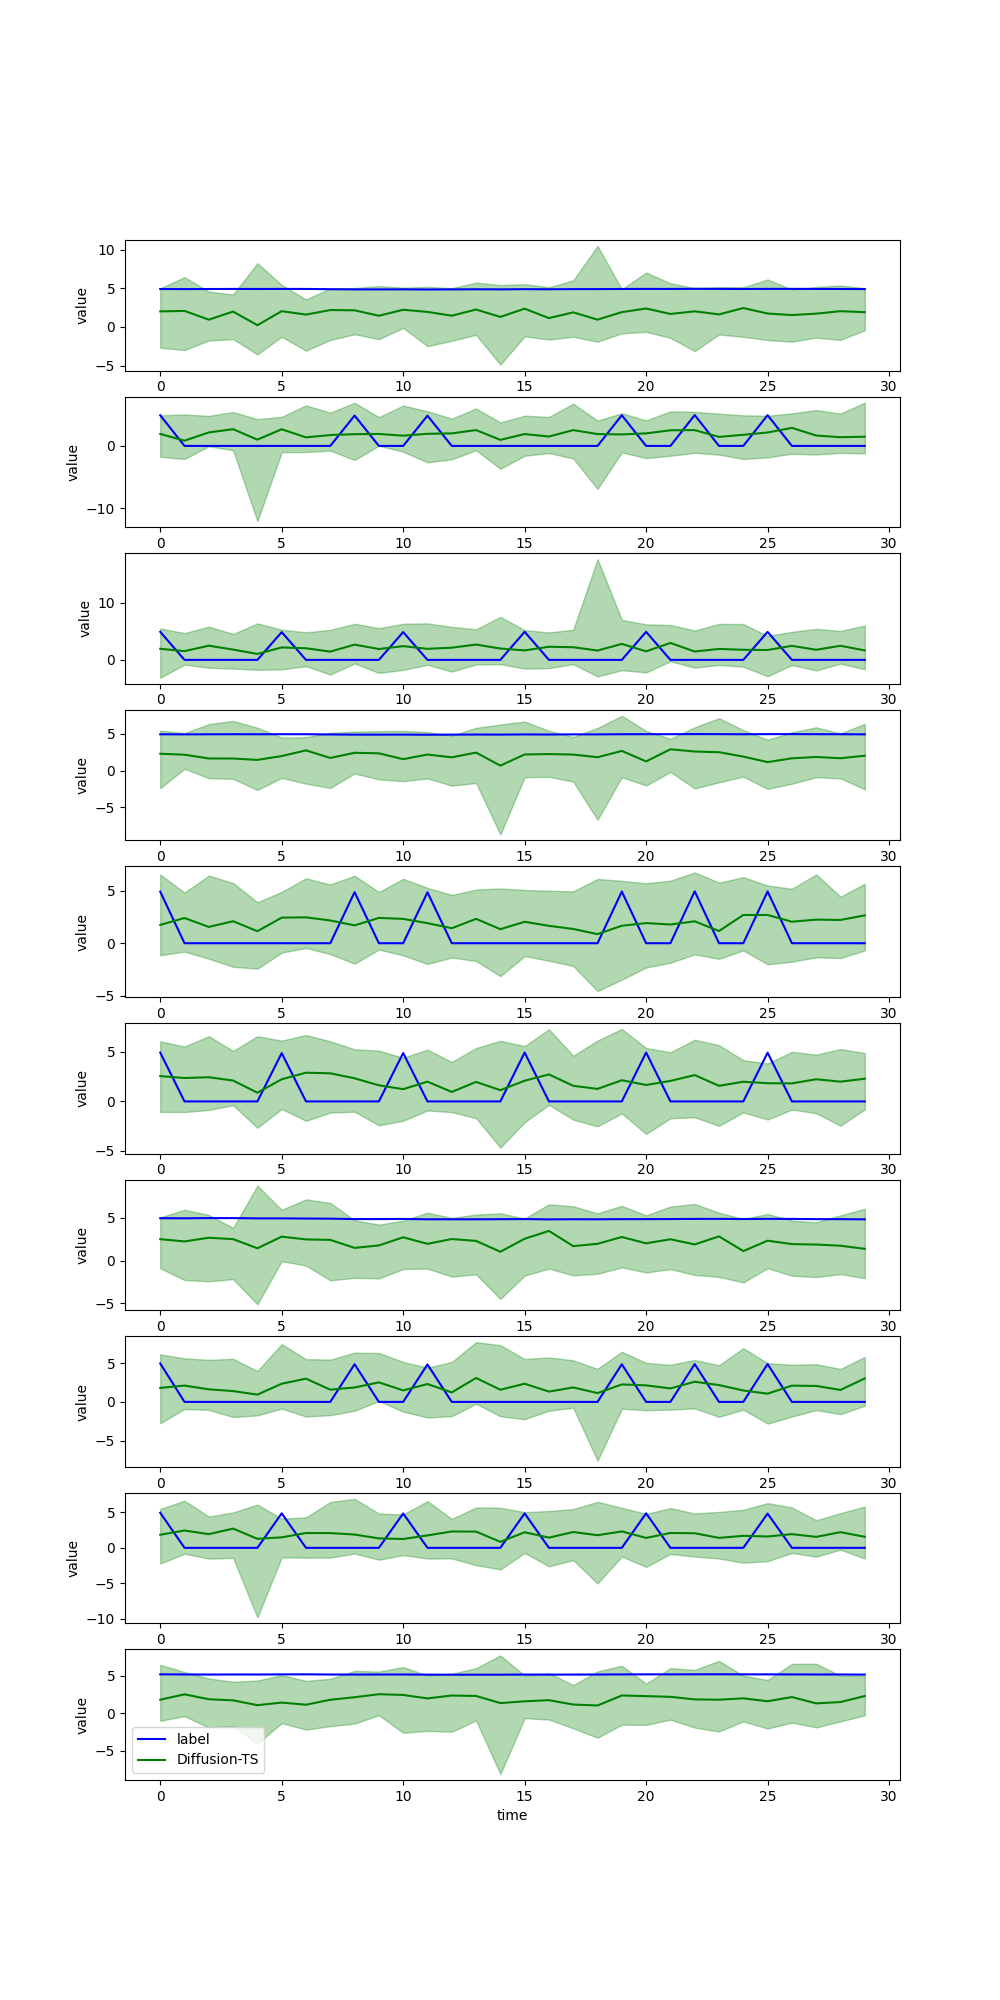
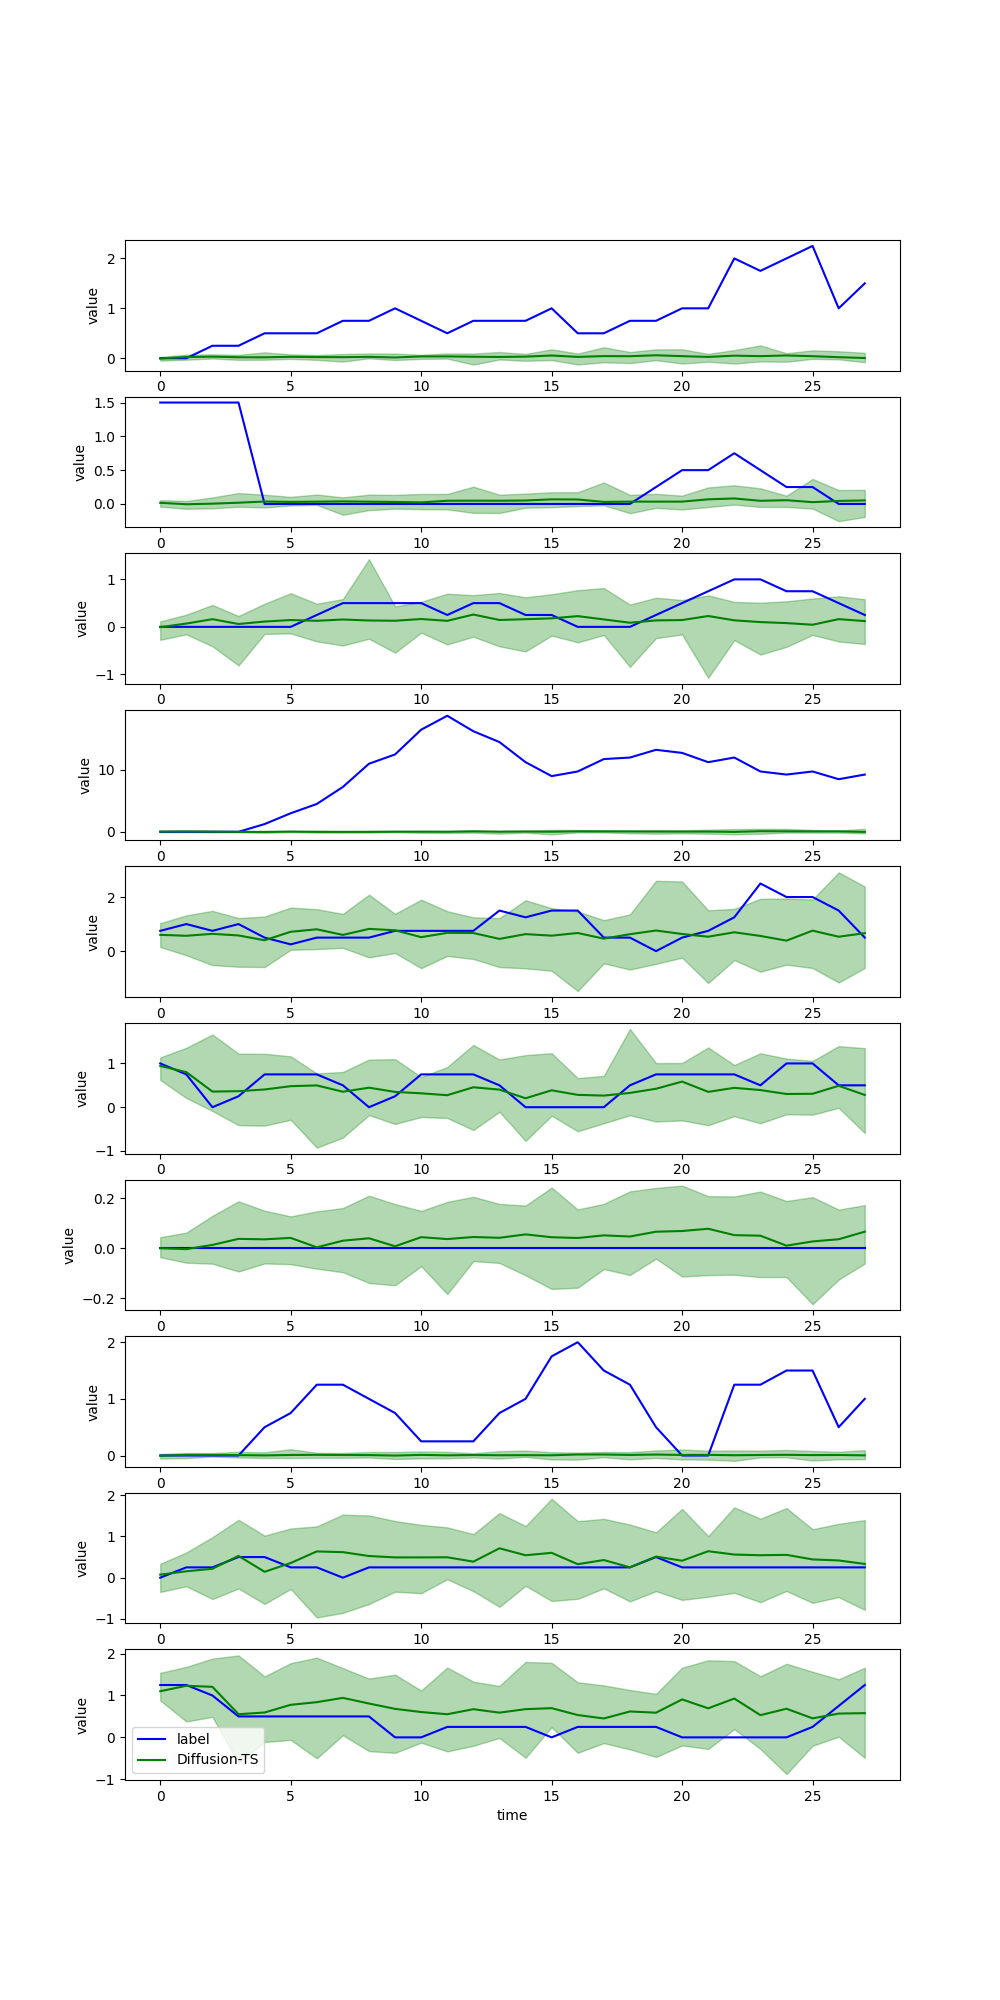
with stl

diff --git a/data_provider/dataset_CSDI.py b/data_provider/dataset_CSDI.py
@@ -2383,16 +2383,53 @@ class Dataset_M5(Dataset):
             self.mask_val = []
             self.main_data = []
             self.mask_data = []
+            self.trend_train = []
+            self.trend_val = []
+            self.season_train = []
+            self.season_val = []
+            self.resid_train = []
+            self.resid_val = []
+
             for foods_store in foods_stores:
                 print(foods_store)
                 df = csv_data[(csv_data['store_id'] == foods_store) & (csv_data['dept_id'].isin(foods_depts))]
                 d_columns = [f'd_{i}' for i in range(1, 1942)]
-                filtered_data_d = df[d_columns].T.values
-                filtered_data_d, mask = process_data(filtered_data_d)
-                mean, std = calculate_stats(filtered_data_d[:-self.pred_len], mask[:-self.pred_len])
-                # mean = np.mean(filtered_data_d[:-self.pred_length], axis=0)
-                # std = np.std(filtered_data_d[:-self.pred_length], axis=0)
+                # filtered_data_d = df[d_columns].T.values
+                # filtered_data_d = df[d_columns].T.rolling(window=4, min_periods=1).mean().to_numpy()
+                filtered_data_d = df[d_columns].T.rolling(window=7, min_periods=1).sum().to_numpy()
+                print("filtered_data_d mean", filtered_data_d.mean())
+                # filtered_data_d, mask = process_data(filtered_data_d)
+                # mean, std = calculate_stats(filtered_data_d[:-self.pred_len], mask[:-self.pred_len])
+                mask = np.ones_like(filtered_data_d)
+                mean = np.mean(filtered_data_d[:-self.pred_len], axis=0)
+                std = np.std(filtered_data_d[:-self.pred_len], axis=0)
                 normalized_data = (filtered_data_d - mean) / std
+                # import pdb; pdb.set_trace()
+                # Initialize arrays to store decomposition results
+                trend_all = np.zeros_like(normalized_data)
+                seasonal_all = np.zeros_like(normalized_data)
+                residual_all = np.zeros_like(normalized_data)
+                if self.set_type == 0 or self.set_type ==1:
+                    # Perform STL decomposition for each sample
+                    for i in range(normalized_data.shape[0]):
+                        # Convert each time series to pandas Series
+                        ts = pd.Series(normalized_data[i, :])
+                        
+                        # Perform STL decomposition
+                        # Adjust period based on your data's seasonal pattern
+                        stl = STL(ts, period=24)  # For example, if daily data with yearly seasonality, period=365
+                        result = stl.fit()
+                        
+                        # Store results
+                        trend_all[i, :] = result.trend
+                        seasonal_all[i, :] = result.seasonal
+                        residual_all[i, :] = result.resid
+
+                # Components are now available as numpy arrays
+                trend_np = trend_all #.to_numpy()
+                seasonal_np = seasonal_all #.to_numpy()
+                residual_np = residual_all #.to_numpy()
+
                 start = ((len(normalized_data) - self.seq_length -self.seq_length) -(self.seq_length-self.pred_len))//self.pred_len
                 end = len(normalized_data) - self.seq_length -self.seq_length + 1
                 self.test_data.append(normalized_data[-self.seq_length:].copy())
@@ -2402,16 +2439,24 @@ class Dataset_M5(Dataset):
                 self.test_std.append(std)
 
                 self.use_index = np.arange(start,end,self.pred_len)
+                # self.use_index = np.arange(start,end,1)
 
                 for index in self.use_index[:-3]:
                     self.mask_data.append(mask[index:index+self.seq_length])
                     # self.mask_data.append(np.ones_like(normalized_data[index:index+self.seq_length]))
                     self.main_data.append(normalized_data[index:index+self.seq_length])
+                    self.trend_train.append(trend_np[index:index+self.seq_length])
+                    self.season_train.append(seasonal_np[index:index+self.seq_length])
+                    self.resid_train.append(residual_np[index:index+self.seq_length])
+                    
                     
                 for index in self.use_index[-3:]:
                     self.mask_val.append(mask[index:index+self.seq_length])
                     # self.mask_val.append(np.ones_like(normalized_data[index:index+self.seq_length]))
                     self.val_data.append(normalized_data[index:index+self.seq_length])
+                    self.trend_val.append(trend_np[index:index+self.seq_length])
+                    self.season_val.append(seasonal_np[index:index+self.seq_length])
+                    self.resid_val.append(residual_np[index:index+self.seq_length])
 
             
             '''
@@ -2425,7 +2470,7 @@ class Dataset_M5(Dataset):
         
         
        
-        self.mmean_data = 0
+        self.mean_data = 0
         self.std_data = 1
         
         if self.set_type == 0:
@@ -2450,6 +2495,12 @@ class Dataset_M5(Dataset):
             seq_y = self.main_data[index][-self.pred_len:, feat_id:feat_id+1]
             seq_y = torch.tensor(seq_y, dtype=torch.float32)
             observed_mask = self.mask_data[index][-self.pred_len:, feat_id:feat_id+1]
+            train_trend = self.trend_train[index][:-self.pred_len, feat_id:feat_id+1]
+            train_season = self.season_train[index][:-self.pred_len, feat_id:feat_id+1]
+            train_resid = self.resid_train[index][:-self.pred_len, feat_id:feat_id+1]
+            trend = torch.tensor(train_trend, dtype=torch.float32)
+            season = torch.tensor(train_season, dtype=torch.float32)
+            resid = torch.tensor(train_resid, dtype=torch.float32)
         # seq_x = self.main_data[index:index+self.seq_len]
         elif self.set_type == 1:
             index = orgindex//self.enc_in
@@ -2459,6 +2510,13 @@ class Dataset_M5(Dataset):
             seq_y = self.val_data[index][-self.pred_len:, feat_id:feat_id+1]
             seq_y = torch.tensor(seq_y, dtype=torch.float32)
             observed_mask = self.mask_val[index][-self.pred_len:, feat_id:feat_id+1]
+
+            val_trend = self.trend_val[index][:-self.pred_len, feat_id:feat_id+1]
+            val_season = self.season_val[index][:-self.pred_len, feat_id:feat_id+1]
+            val_resid = self.resid_val[index][:-self.pred_len, feat_id:feat_id+1]
+            trend = torch.tensor(val_trend, dtype=torch.float32)
+            season = torch.tensor(val_season, dtype=torch.float32)
+            resid = torch.tensor(val_resid, dtype=torch.float32)
         else:
             index = self.use_index[orgindex]
             seq_x = self.test_data[index][:-self.pred_len]
@@ -2471,7 +2529,7 @@ class Dataset_M5(Dataset):
       
         
         if self.set_type == 0 or self.set_type == 1:
-            return seq_x, seq_y, observed_mask, observed_mask
+            return seq_x, seq_y, observed_mask, observed_mask, trend, season, resid
         else:
             return seq_x, seq_y, observed_mask, means, stds
         # return seq_x, text_embedding, observed_mask
@@ -2479,6 +2537,7 @@ class Dataset_M5(Dataset):
     def __len__(self):
         if self.set_type == 2:
             return len(self.use_index)
+        print(self.enc_in )
         return len(self.use_index)*self.enc_in   
 
 

diff --git a/utils/tools.py b/utils/tools.py
@@ -280,6 +280,9 @@ def vali(model, vali_data, vali_loader, criterion, args, device, itr):
             
 
             if args.model == 'GPT4TS_multi' or args.model == 'NLinear_multi' or 'TEMPO' in args.model:
+                seq_trend = data[4]
+                seq_seasonal = data[5]
+                seq_resid = data[6]
                 seq_trend = seq_trend.float().to(device)
                 seq_seasonal = seq_seasonal.float().to(device)
                 seq_resid = seq_resid.float().to(device)
@@ -297,7 +300,7 @@ def vali(model, vali_data, vali_loader, criterion, args, device, itr):
 
             # pred = outputs.detach().cpu()
             # true = batch_y.detach().cpu()
-
+            # import pdb; pdb.set_trace()
             loss = criterion(batch_y, outputs)
 
             total_loss.append(loss.item())
@@ -361,6 +364,36 @@ def plot_results(synthetic_data, target_mask, gt_data, seq_len,
     # plt.show()
     plt.close()
 
+from torch.distributions import NegativeBinomial
+
+def sample_negative_binomial(mu, alpha, num_samples=1):
+    """
+    Generate samples from a Negative Binomial distribution.
+    
+    Args:
+    mu (torch.Tensor): Mean parameter of the Negative Binomial distribution.
+    alpha (torch.Tensor): Dispersion parameter of the Negative Binomial distribution.
+    num_samples (int): Number of samples to generate for each mu-alpha pair.
+    
+    Returns:
+    torch.Tensor: Samples from the Negative Binomial distribution.
+    """
+    # Ensure mu and alpha are positive
+    mu = torch.clamp(mu, min=1e-6)
+    alpha = torch.clamp(alpha, min=1e-6)
+
+    # Calculate the parameters needed for PyTorch's NegativeBinomial distribution
+    r = 1 / alpha  # shape parameter (number of failures)
+    p = torch.clamp(1 / (1 + mu * alpha), min=1e-6, max=1-1e-6)  # success probability
+    
+    # Create the NegativeBinomial distribution
+    nb_dist = NegativeBinomial(total_count=r, probs=p)
+    
+    # Generate samples
+    samples = nb_dist.sample((num_samples,))
+    
+    return samples
+
 def test(model, test_data, test_loader, args, device, itr):
     preds = []
     trues = []
@@ -405,25 +438,29 @@ def test(model, test_data, test_loader, args, device, itr):
             # import pdb; pdb.set_trace()
             for channel in range(batch_x.shape[-1]):
                 if args.model == 'TEMPO' or args.model == 'TEMPO_t5' or 'multi' in args.model:
-                    seq_trend = seq_trend.float().to(device)
-                    seq_seasonal = seq_seasonal.float().to(device)
-                    seq_resid = seq_resid.float().to(device)
-                    outputs, _ = model(batch_x[:, -args.seq_len:, channel:channel+1], itr,  seq_trend[:, -args.seq_len:, :], seq_seasonal[:, -args.seq_len:, :], seq_resid[:, -args.seq_len:, :])
+                    # seq_trend = seq_trend.float().to(device)
+                    # seq_seasonal = seq_seasonal.float().to(device)
+                    # seq_resid = seq_resid.float().to(device)
+                    outputs, _ = model(batch_x[:, -args.seq_len:, channel:channel+1], itr)
                 elif 'former' in args.model or args.model == 'FEDformer' or args.model == 'TimesNet' or args.model == 'LightTS':
                     dec_inp = torch.zeros_like(batch_y[:, -args.pred_len:, :]).float()
                     dec_inp = torch.cat([batch_y[:, :args.label_len, :], dec_inp], dim=1).float().to(device)
                     outputs = model(batch_x, batch_x_mark, dec_inp, batch_y_mark)
                 else:
                     outputs = model(batch_x[:, -args.seq_len:,  channel:channel+1], itr)
-            
-                # outputs = model(batch_x[:, -args.seq_len:, :], itr)
-                mu, sigma, nu = outputs[0], outputs[1], outputs[2]
-                # Create the Student's t-distribution with the predicted parameters
-                student_t = dist.StudentT(df=nu, loc=mu, scale=sigma)
 
-                # Generate 30 samples for each prediction
-                num_samples = 35
-                probabilistic_forecasts = student_t.rsample((num_samples,))
+                if args.loss_func == 'prob':
+                    # outputs = model(batch_x[:, -args.seq_len:, :], itr)
+                    mu, sigma, nu = outputs[0], outputs[1], outputs[2]
+                    # Create the Student's t-distribution with the predicted parameters
+                    student_t = dist.StudentT(df=nu, loc=mu, scale=sigma)
+
+                    # Generate 30 samples for each prediction
+                    num_samples = 35
+                    probabilistic_forecasts = student_t.rsample((num_samples,))
+                elif args.loss_func == 'negative_binomial':
+                    mu, alpha = outputs[0], outputs[1]
+                    probabilistic_forecasts = sample_negative_binomial(mu, alpha, 35)
 
                 # The shape of probabilistic_forecasts will be (num_samples, batch_size, pred_length)
                 # print(probabilistic_forecasts.shape)
@@ -492,8 +529,19 @@ def test(model, test_data, test_loader, args, device, itr):
     high_q = np.quantile(unormalized_synthetic_data,0.95,axis=1)
     mid_q = np.quantile(unormalized_synthetic_data,0.5,axis=1)
 
-    # plot_results(unormalized_synthetic_data, target_mask, unormzalized_gt_data, 30, low_q, mid_q, high_q, 
-    #              path =  './forecasting_examine_together.png', pred_len = 30)
+    # pred = pred
+    print("Shape of pred: ", mid_q.shape)
+    print("Shape of gt: ", unormzalized_gt_data.shape)
+    print("Shape of synthetic_data: ", unormalized_synthetic_data.shape)
+    # f'/projects/bcqc/dcao1/M5/{args.model}_saved_data'
+    import os
+    os.makedirs(f'/projects/bcqc/dcao1/M5/{args.model}_{args.moving}_saved_data', exist_ok=True)
+    np.savetxt(f'/projects/bcqc/dcao1/M5/{args.model}_{args.moving}_saved_data/ADD_{args.target_data}.csv', mid_q.reshape(-1, 28), delimiter=',')
+    np.savetxt(f'/projects/bcqc/dcao1/M5/{args.model}_{args.moving}_saved_data/ADD_{args.target_data}_gt.csv', unormzalized_gt_data.reshape(-1, 28), delimiter=',')
+    np.save(f'/projects/bcqc/dcao1/M5/{args.model}_{args.moving}_saved_data/ADD_{args.target_data}_samples.npy', unormalized_synthetic_data)
+    # import pdb; pdb.set_trace()
+    plot_results(unormalized_synthetic_data, target_mask, unormzalized_gt_data, 28, low_q, mid_q, high_q, 
+                 path =  './forecasting_examine_together.png', pred_len = 28)
     
 
     unormzalized_gt_data = np.swapaxes(unormzalized_gt_data, -1, -2)

diff --git a/main_multi_6domain_release.py b/main_multi_6domain_release.py
@@ -101,6 +101,8 @@ parser.add_argument('--use_token', type=int, default=0)
 parser.add_argument('--electri_multiplier', type=int, default=1)
 parser.add_argument('--traffic_multiplier', type=int, default=1)
 parser.add_argument('--embed', type=str, default='timeF')
+parser.add_argument('--moving', type=int, default=7)
+
 
 #args = parser.parse_args([])
 args = parser.parse_args()
@@ -261,9 +263,28 @@ for ii in range(args.itr):
             # import pdb; pdb.set_trace()
             nll = -student_t.log_prob(y_true)
             return nll.mean()
+    elif args.loss_func == 'negative_binomial':
+        import torch.distributions as dist
+        def criterion(target, y_pred):
+            # Compute negative log-likelihood of Negative Binomial distribution
+            mu, alpha = y_pred[0], y_pred[1]
+            # import pdb; pdb.set_trace()
+            if len(target.shape)!=3:
+                target = target.unsqueeze(2)
+            log_gamma_x_plus_n = torch.lgamma(target + 1.0 / alpha)
+            log_gamma_x = torch.lgamma(target + 1)
+            log_gamma_n = torch.lgamma(1.0 / alpha)
+            
+            log_prob = log_gamma_x_plus_n - log_gamma_x - log_gamma_n \
+                    - (target + 1.0 / alpha) * torch.log1p(alpha * mu) \
+                    + target * torch.log(alpha * mu) - target * torch.log1p(alpha * mu)
+            
+            return -log_prob.mean()
+
     
     scheduler = torch.optim.lr_scheduler.CosineAnnealingLR(model_optim, T_max=args.tmax, eta_min=1e-8)
-    train_flag = True #False #True #False #True
+    # train_flag = True #False #True #False #True #False #True
+    train_flag = True #False #True #False #True #False #True #False #True #False #True
     if train_flag:
         for epoch in range(args.train_epochs):
 
@@ -281,9 +302,12 @@ for ii in range(args.itr):
                 batch_x_mark = batch_x_mark.float().to(device)
                 batch_y_mark = batch_y_mark.float().to(device)
 
-                
+                # import pdb; pdb.set_trace()
                 # print(seq_seasonal.shape)
                 if args.model == 'TEMPO' or 'multi' in args.model:
+                    seq_trend = data[4]
+                    seq_seasonal = data[5]
+                    seq_resid = data[6]
                     seq_trend = seq_trend.float().to(device)
                     seq_seasonal = seq_seasonal.float().to(device)
                     seq_resid = seq_resid.float().to(device)

diff --git a/models/DLinear.py b/models/DLinear.py
@@ -73,7 +73,7 @@ class DLinear(nn.Module):
         self.mu = nn.Linear(configs.pred_len, configs.pred_len)  # Mean
         self.sigma = nn.Linear(configs.pred_len, configs.pred_len)  # Scale (standard deviation)
         self.nu = nn.Linear(configs.pred_len, configs.pred_len)  # Degrees of freedom
-
+        self.alpha= nn.Linear(configs.pred_len, configs.pred_len) 
 
 
 
@@ -93,12 +93,17 @@ class DLinear(nn.Module):
 
         x = seasonal_output + trend_output
 
-        mu = self.mu(x)
-        sigma = F.softplus(self.sigma(x)) + 1e-6  # Ensure scale is positive
-        nu = F.softplus(self.nu(x)) + 2   # Ensure degrees of freedom > 2
+        # mu = self.mu(x)
+        # sigma = F.softplus(self.sigma(x)) + 1e-6  # Ensure scale is positive
+        # nu = F.softplus(self.nu(x)) + 2   # Ensure degrees of freedom > 2
 
 
-        # if self.pool:
-        #     return outputs, loss_local #loss_local - reduce_sim_trend - reduce_sim_season - reduce_sim_noise
-        return (mu, sigma, nu)
-        # return x.permute(0,2,1) # to [Batch, Output length, Channel]
+        # # if self.pool:
+        # #     return outputs, loss_local #loss_local - reduce_sim_trend - reduce_sim_season - reduce_sim_noise
+        # return (mu, sigma, nu)
+        # # return x.permute(0,2,1) # to [Batch, Output length, Channel]
+
+        mu = F.softplus(self.mu(x)) + 1e-4  # Ensure mean is positive
+        alpha = F.softplus(self.alpha(x)) + 1e-4  # Ensure dispersion is positive
+
+        return mu.permute(0,2,1), alpha.permute(0,2,1)  # Return to [Batch, Output length, Channel]

diff --git a/models/TEMPO.py b/models/TEMPO.py
@@ -378,7 +378,7 @@ class TEMPO(nn.Module):
                 return x
 
 
-    def forward(self, x, itr, trend, season, noise, test=False):
+    def forward(self, x, itr, trend=None, season=None, noise=None, test=False):
         B, L, M = x.shape # 4, 512, 1
 
        
@@ -400,6 +400,8 @@ class TEMPO(nn.Module):
             trend, means_trend, stdev_trend = self.get_norm(trend)
             season, means_season, stdev_season = self.get_norm(season)
             noise, means_noise, stdev_noise = self.get_norm(noise)
+            # print("trend shape:", trend.shape)
+            # print("trend_local shape:", trend_local.shape)
             trend_local_l = criterion(trend, trend_local)
             season_local_l = criterion(season, season_local)
             noise_local_l = criterion(noise, noise_local)
